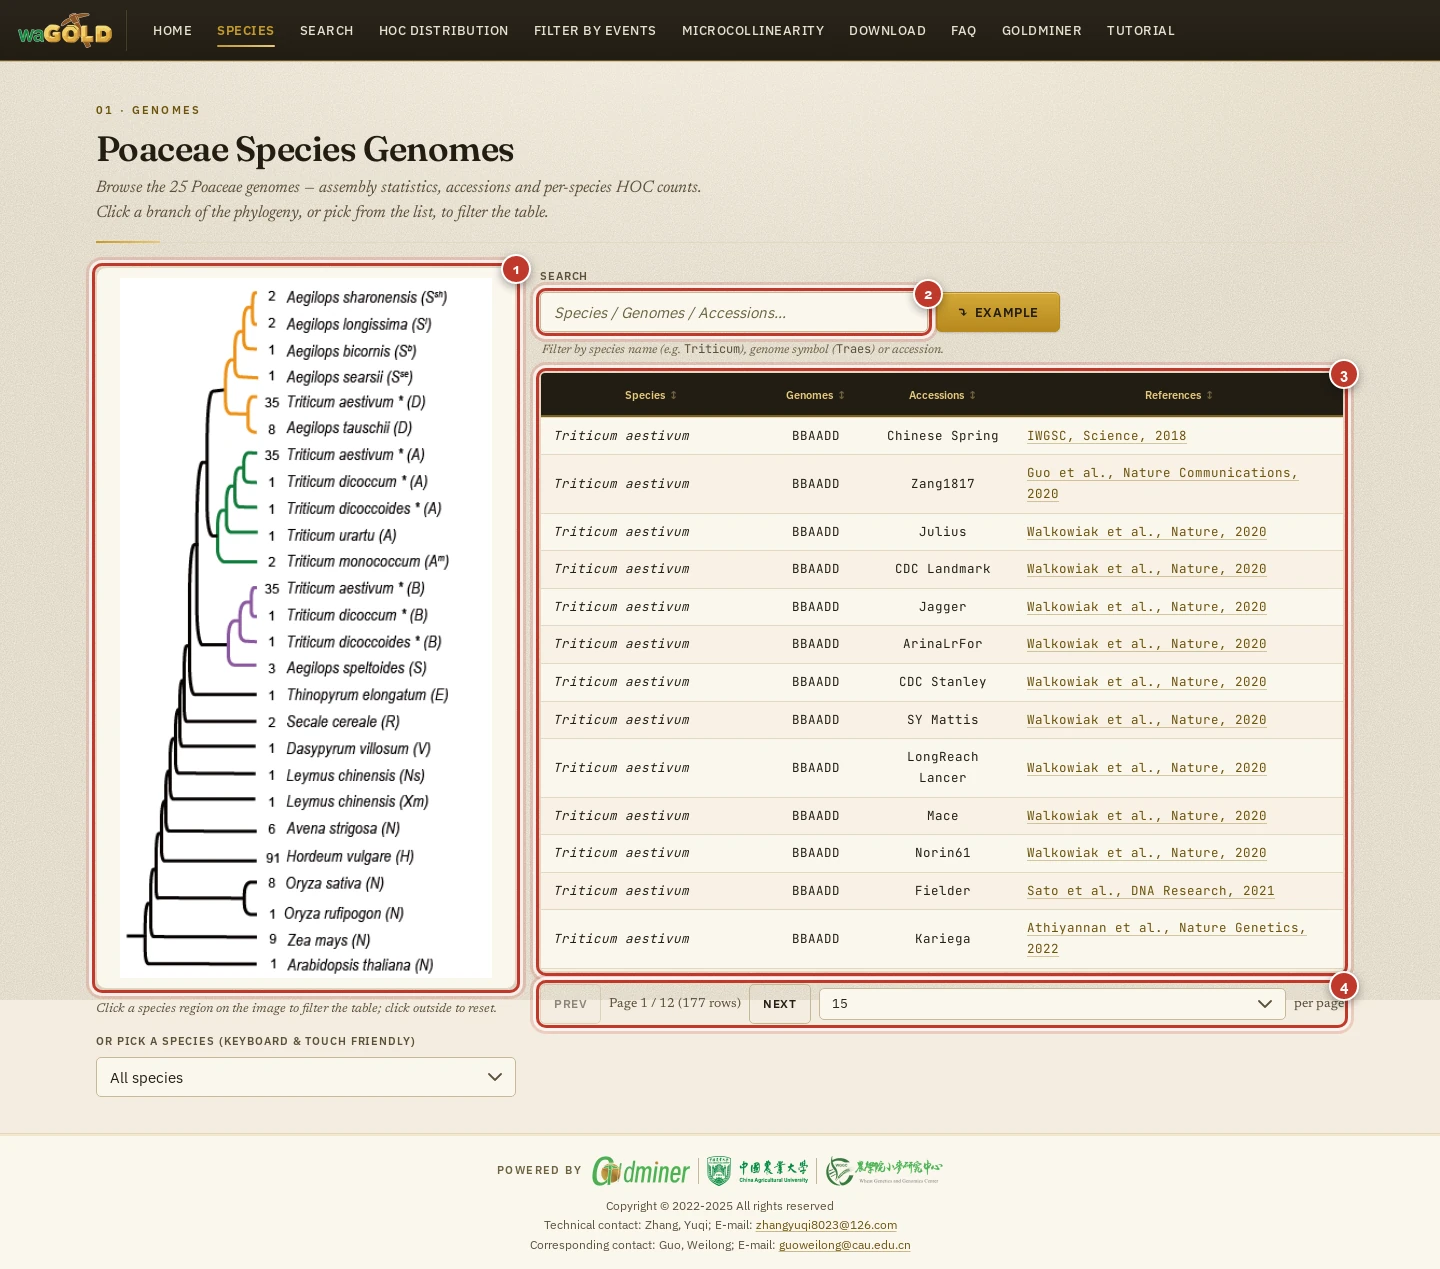
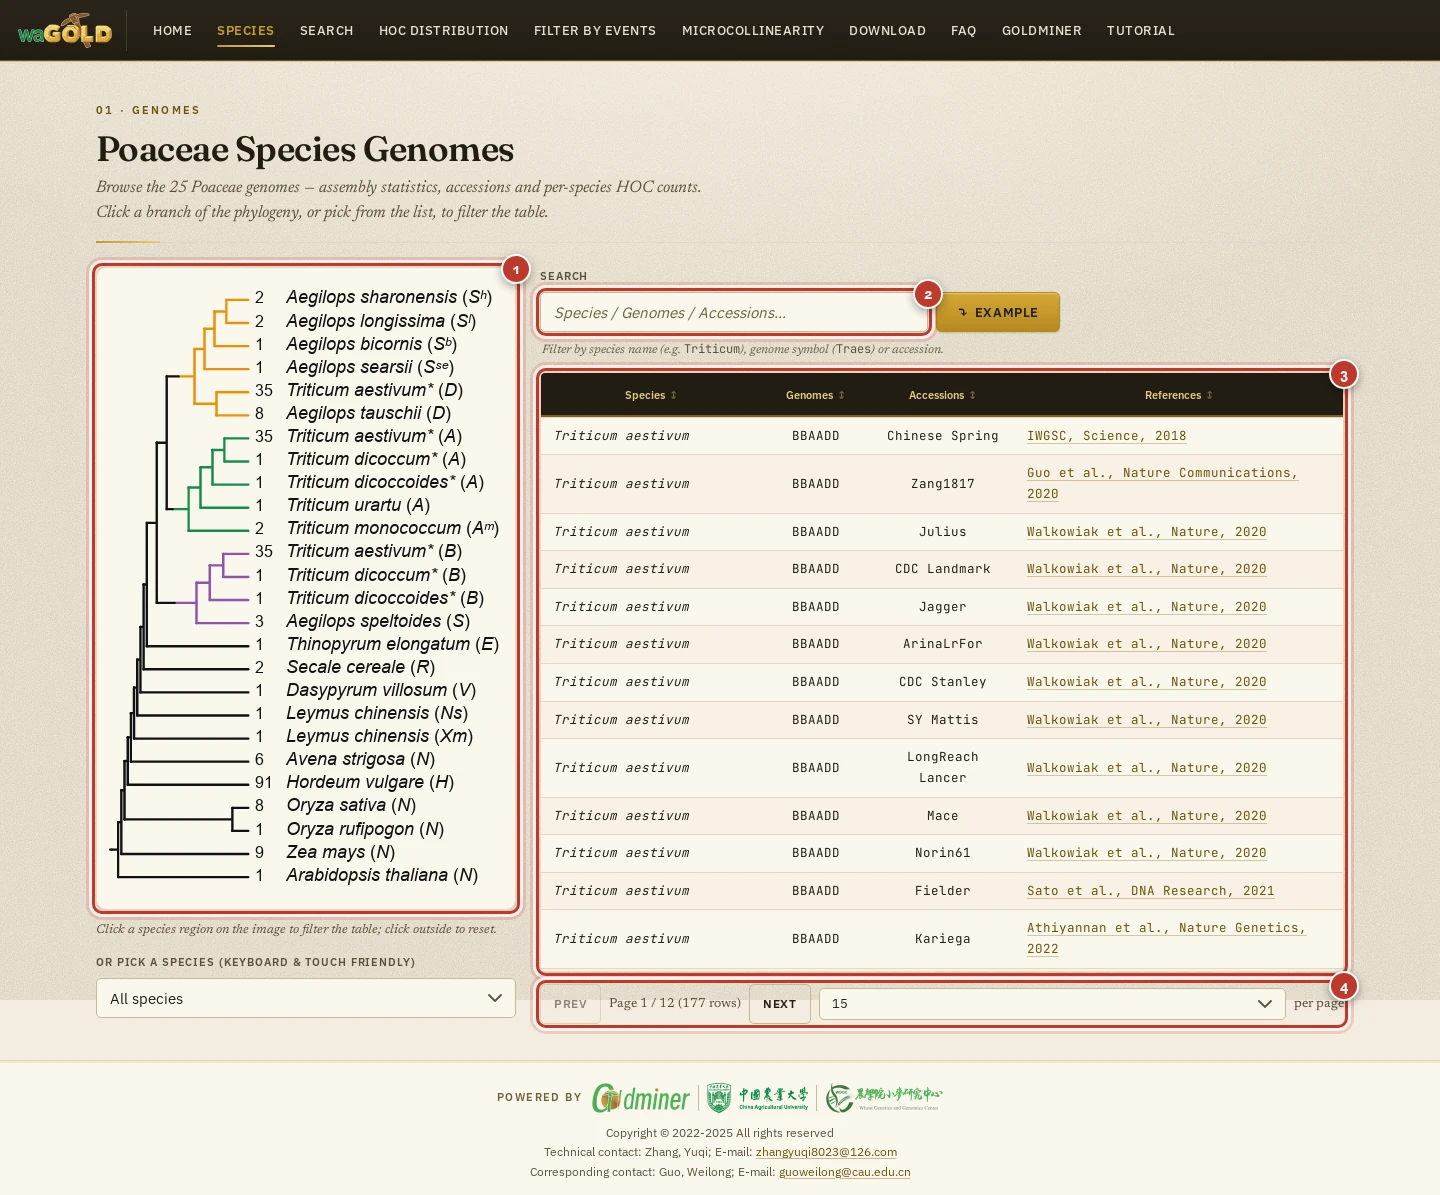
docs: update species tutorial with new phylogeny

diff --git a/waGOLD/zh-cn.md b/waGOLD/zh-cn.md
@@ -26,7 +26,7 @@ waGOLD 提供交互式可视化、数据导出（PNG、SVG、PDF 和表格）以
 
 <img src="./assets/images/tutorial/02-species.webp" width="100%" alt="Species 页面标注图">
 
-**1. 物种系统发育树。** 树的拓扑来自 GoldMiner，展示数据库中 25 个禾本科基因组之间的关系。点击分支可筛选右侧表格。
+**1. 物种系统发育树。** 树的拓扑来自 GoldMiner，展示数据库中 25 个禾本科基因组之间的关系。点击分支或物种标签可筛选右侧表格。
 
 **2. 搜索框。** 可按物种名、基因组缩写或登录号过滤，例如 `Triticum` 或 `Traes`。
 

diff --git a/waGOLD/README.md b/waGOLD/README.md
@@ -26,7 +26,7 @@ Every `Example` button loads a valid default query. Use it to explore the output
 
 <img src="./assets/images/tutorial/02-species.webp" width="100%" alt="Annotated Species page">
 
-**1. Species phylogeny.** The tree is derived from GoldMiner and shows the relationships among the 25 Poaceae genomes. Click a branch to filter the table.
+**1. Species phylogeny.** The tree is derived from GoldMiner and shows the relationships among the 25 Poaceae genomes. Click a branch or species label to filter the table.
 
 **2. Search box.** Filter by species name, genome symbol or accession, for example `Triticum` or `Traes`.
 
